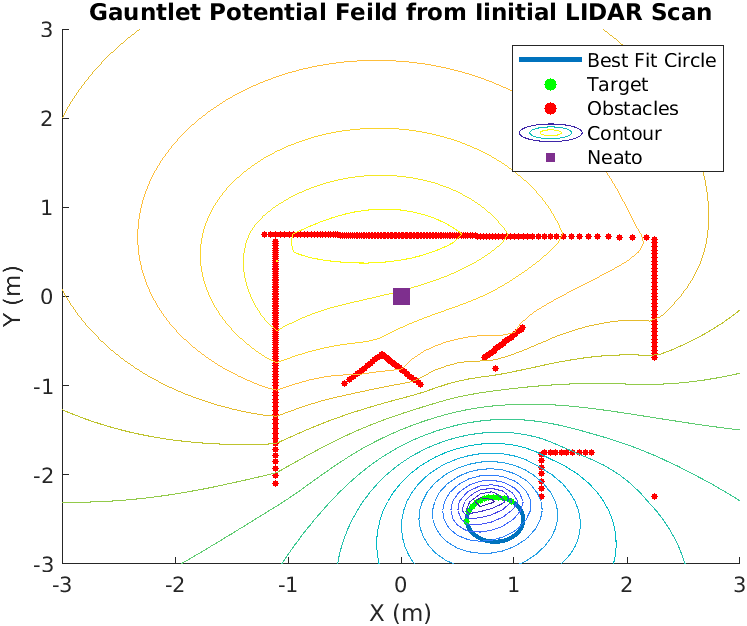
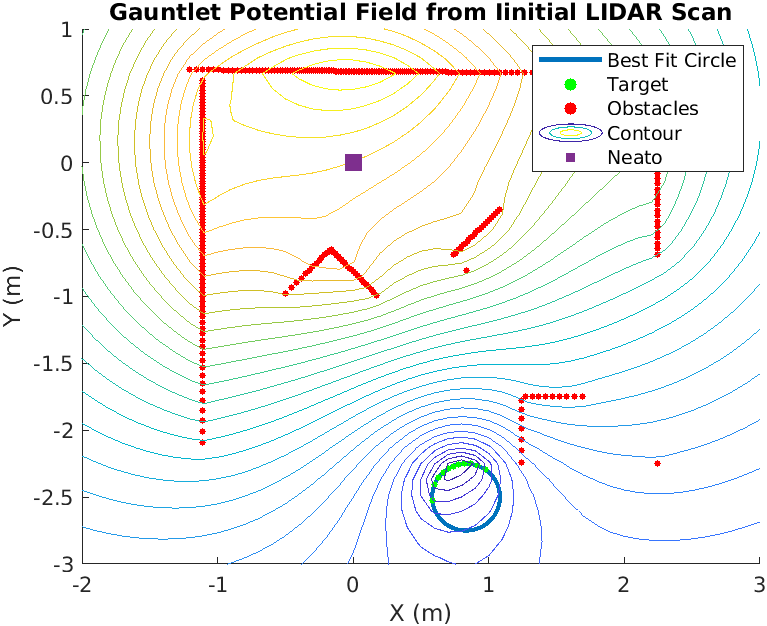
graphs

diff --git a/BoB/gauntlet_final.m b/BoB/gauntlet_final.m
@@ -35,18 +35,20 @@ yunit = known_radius * sin(th) + center(2);
 h = plot(xunit, yunit, 'linewidth', 2);
 scatter(inliers(:,1),inliers(:,2),10, "green", "filled")
 scatter(outliers(:,1), outliers(:,2), 10, "red", "filled")
-contour(X, Y, real(potential), 20)
-scatter(0,0,100, 's',  "filled")
+%contour(X, Y, real(potential),30)
+quiver(X, Y, dx, dy, 2, "color", [.3 0.7 .3])
+
+scatter(0,0,100, 'sb',  "filled")
 %quiver(0, 0, ascent_vec(1), ascent_vec(2), .01)
-%quiver(X, Y, dx, dy)
-axis([-3 3 -3 3])
+
+axis([-2 3 -3 1])
 hold off
 
 
-title('Gauntlet Potential Feild from Iinitial LIDAR Scan')
+title('Gauntlet Gradient Field from Iinitial LIDAR Scan')
 xlabel('X (m)')
 ylabel('Y (m)')
-legend('Best Fit Circle', 'Target', 'Obstacles','Contour','Neato')
+legend('Best Fit Circle', 'Target', 'Obstacles','\nablaF','Neato')
 
 %gradient_ascent(ascent_vec, position, heading, pub, msg);
 

diff --git a/BoB/make_potential_field.m b/BoB/make_potential_field.m
@@ -1,10 +1,10 @@
 function [X, Y, potential] = make_potential_field(x, y, inliers, outliers)
 
 x_field = linspace(-3, 3, 61);
-y_field = linspace(-3, 3, 61);
+y_field = linspace(-4, 3, 61);
 [X, Y] = meshgrid(x_field, y_field);
 
-inlier_scale = 5;
+inlier_scale = 2;
 outlier_scale = 0.2;
 
 
